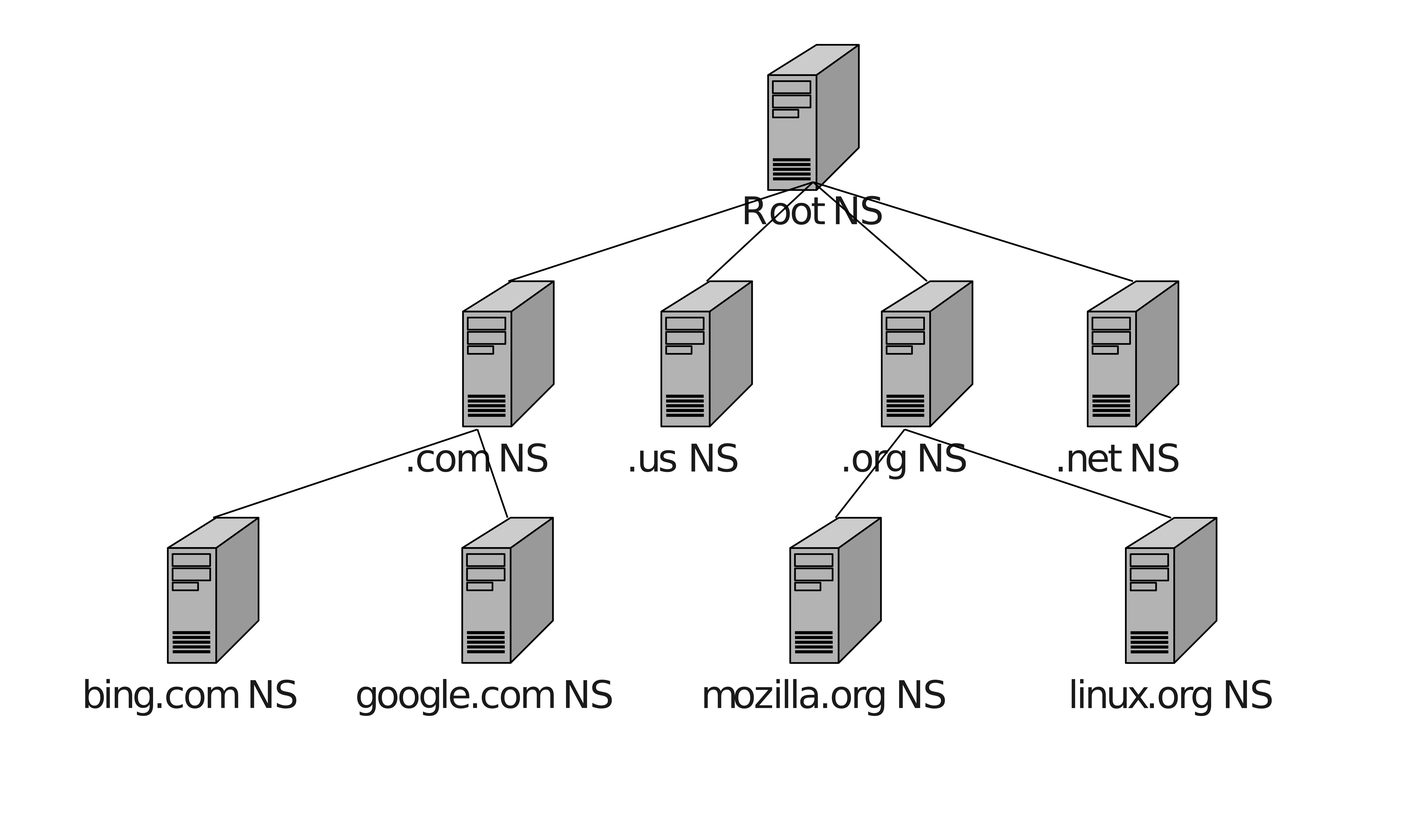
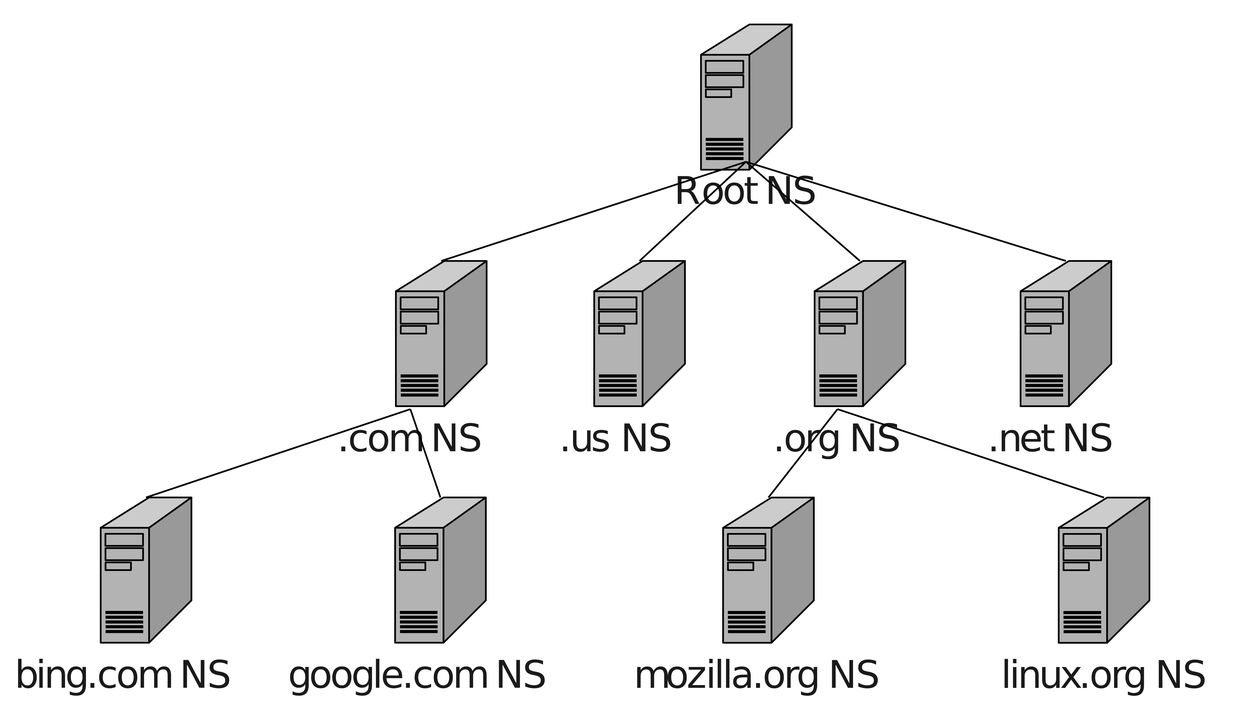
Add section 6.2.2. Minor changes in other sections.
Also add appendixb (Milestones)

diff --git a/chapters/chapter6/section621.tex b/chapters/chapter6/section621.tex
@@ -2,3 +2,150 @@
 % section 6.2.1
 %
 \subsection{Υπηρεσία Ηλεκτρονικού Ταχυδρομείου E-mail (POP3 - IMAP / SMTP)}
+
+Το ηλεκτρονικό ταχυδρομείο είναι ένα σύστημα για μετάδοση μηνυμάτων μεταξύ υπολογιστών. Στην αρχική του μορφή, το ηλεκτρονικό ταχυδρομείο είχε σχεδιαστεί για να μεταφέρει μηνύματα μόνο κειμένου, αργότερα όμως προστέθηκε η δυνατότητα για μεταφορά εικόνων, ήχου, βίντεο ακόμα και ιστοσελίδων, είτε μέσα στο ίδιο το μήνυμα είτε ως \emph{επισυναπτόμενο αρχείο}. Ο χρήστης e-mail έχει τη δυνατότητα να στέλνει μηνύματα σε άλλους χρήστες της υπηρεσίας άνετα γρήγορα και φθηνά. Το ηλεκτρονικό ταχυδρομείο μπορεί επίσης να στέλνει μηνύματα σε ομάδες χρηστών επιτρέποντας τη δημιουργία \emph{λιστών διανομής ή mailing lists}. Όπως και στο συμβατικό ταχυδρομείο, κάθε χρήστης διαθέτει τη δική του διεύθυνση η οποία είναι γενικά της μορφής:
+
+\begin{center}
+xxxxx@yyyyy.zzz
+\end{center}
+
+όπου
+
+\begin{itemize}
+\item \textbf{xxxxx} είναι το όνομα ή κάποιο ψευδώνυμο του χρήστη
+\item \textbf{yyyyy} είναι το όνομα της περιοχής της εταιρίας που παρέχει την υπηρεσία e-mail. Η εταιρία μπορεί να είναι η ίδια που παρέχει υπηρεσίες Internet στον πελάτη ή άλλη εταιρία που παρέχει e-mail επί πληρωμή η δωρεάν. Η περιοχή μπορεί στην πραγματικότητα να περιέχει υποπεριοχές χωρισμένες με τελείες
+\item \textbf{zzz} είναι η κατάληξη που αντιστοιχεί στην περιοχή 1ου επιπέδου και συμβολίζει είτε το είδος της εταιρείας που παρέχει την υπηρεσία (.com, .edu, .org κλπ) είτε τη χώρα (.gr, .de, .fr κλπ)
+\end{itemize}
+
+Το ηλεκτρονικό ταχυδρομείο είναι μια υπηρεσία που χρησιμοποιεί το μοντέλο πελάτη -- εξυπηρετητή. Πελάτης είναι το πρόγραμμα που χρησιμοποιεί ο χρήστης για να γράψει, να λάβει και να στείλει e-mail (π.χ. Windows Live Mail, Outlook, Mozilla Thunderbird). Ο εξυπηρετητής e-mail (e-mail server) είναι μια δικτυακή υπηρεσία που εκτελείται στον εξυπηρετητή του παροχέα. Σε γενικές γραμμές:
+
+\textbf{Ο Πελάτης (client):}
+
+\begin{itemize}
+\item Ξεκινάει την επαφή με τον εξυπηρετητή ταχυδρομείου
+\item Ζητά εξυπηρέτηση από τον εξυπηρετητή (π.χ. για να λάβει ή να στείλει mail)
+\end{itemize}
+
+\textbf{Ο Εξυπηρετητής (server):}
+
+\begin{itemize}
+\item Παρέχει στον πελάτη την εξυπηρέτηση που ζήτησε. Ο εξυπηρετητής είναι υπεύθυνος για να παραδώσει στον πελάτη τα μηνύματα που ήρθαν για αυτόν και να παραδώσει τα μηνύματα που στέλνει ο πελάτης στον εξυπηρετητή προορισμού προκειμένου να παραδοθούν στον πελάτη -- παραλήπτη όταν τα ζητήσει.
+\item Κρατά σε ηλεκτρονική θυρίδα (mailbox) τα μηνύματα που δεν έχει ακόμα παραλάβει ο χρήστης. Σε άλλη αντίστοιχη θυρίδα (ουρά) κρατά τα μηνύματα που έχει παραλάβει από το χρήστη μέχρι να μπορέσει να τα αποστείλει στον προορισμό τους.
+\end{itemize}
+
+Τα πλεονεκτήματα του ηλεκτρονικού ταχυδρομείου είναι:
+
+\begin{itemize}
+\item Είναι πολύ γρήγορο (πρακτικά άμεσο)
+\item Ο χρήστης δεν χρειάζεται να παρακολουθεί τη μετάδοση του μηνύματος όπως π.χ. συμβαίνει με το φαξ
+\item Είναι πιο οικονομικό από το συμβατικό ταχυδρομείο
+\item Μπορούμε να στείλουμε εύκολα το ίδιο μήνυμα σε πολλούς χρήστες ταυτόχρονα
+\end{itemize}
+
+Ωστόσο υπάρχουν και μειονεκτήματα:
+
+\begin{itemize}
+\item Δεν υπάρχει απόλυτη εγγύηση ότι το μήνυμα έφτασε στο προορισμό του
+\item (Εκτός βιβλίου) Λαμβάνουμε μεγάλο αριθμό άσχετων / κακόβουλων μηνυμάτων, ιών κλπ -- γνωστό και ως spam
+\end{itemize}
+
+Η μορφή των μηνυμάτων ηλεκτρονικού ταχυδρομείου με μορφή κειμένου καθορίζεται από διεθνές πρότυπο. Ένα τέτοιο μήνυμα αποτελείται από:
+
+\begin{itemize}
+\item Την \textbf{επικεφαλίδα (header)}: Είναι ένα σύνολο γραμμών όπου κάθε γραμμή αποτελείται από μια επικεφαλίδα, μια άνω-κάτω τελεία και μια τιμή. Για παράδειγμα:
+
+\begin{verbatim}
+From: sonic@thecompany.gr
+To: mpampis@othercompany.gr
+Subject: Testing Email
+\end{verbatim}
+
+\item Το \textbf{σώμα (body)} του μηνύματος: χωρίζεται από την επικεφαλίδα με μια κενή γραμμή. Το σώμα περιέχει το ASCII κείμενο του μηνύματος. Στην πραγματικότητα ακόμα και τα συνημμένα κωδικοποιούνται και μεταδίδονται με αντίστοιχη μορφή. Το τέλος του μηνύματος σηματοδοτείται από μια τελεία ``.'' μόνη της σε μια γραμμή.
+\end{itemize}
+
+Τα βασικά πρωτόκολλα που χρησιμοποιούνται για τη διεκπεραίωση των διαδικασιών του ταχυδρομείου είναι τα \textbf{SMTP, POP3, IMAP} και βρίσκονται φυσικά στο επίπεδο εφαρμογής. To SMTP είναι υπεύθυνο για την αποστολή ταχυδρομείου από το πελάτη προς τον εξυπηρετητή και μεταξύ εξυπηρετητών ενώ τα άλλα δύο για τη λήψη μηνυμάτων από τον εξυπηρετητή στον πελάτη.
+
+\begin{inthebox}
+\textbf{Με τι μοιάζει μια επικοινωνία SMTP;}
+
+Μπορούμε πράγματι να δούμε και να εκτελέσουμε μια επικοινωνία SMTP στέλνοντας μόνοι μας τις κατάλληλες εντολές, χωρίς να χρειαζόμαστε κάποιο πρόγραμμα ηλεκτρονικού ταχυδρομείου. Γενικά θα πρέπει να θυμάστε ότι στο επίπεδο εφαρμογής οι εντολές των πρωτοκόλλων είναι κατανοητές από τον άνθρωπο: πρόκειται για εντολές στα Αγγλικά, κατά βάση συντομεύσεις (συντμήσεις) λέξεων.
+
+Στο παρακάτω παράδειγμα δείχνουμε πως θα ήταν η επικοινωνία ενός πελάτη με ένα εξυπηρετητή SMTP για την αποστολή ενός μηνύματος. Μπορούμε να εκτελέσουμε χειροκίνητα αυτή τη διαδικασία αν συνδεθούμε με ένα πρόγραμμα ικανό να στείλει ακολουθίες χαρακτήρων (εντολές) στη θύρα 25 (όπου βρίσκεται ο εξυπηρετητής SMTP). Στο παράδειγμα μας χρησιμοποιούμε το πρόγραμμα telnet για να συνδεθούμε σε ένα εξυπηρετητή SMTP που εκτελείται τοπικά σε ένα σύστημα UNIX:
+
+\begin{verbatim}
+$ telnet 127.0.0.1 25
+
+Trying 127.0.0.1...
+Connected to localhost.
+Escape character is '^]'.
+220 pegasus.chania-lug.gr ESMTP Sendmail 8.15.2/8.15.2; 
+    Thu, 23 Feb 2017 21:28:58 +0200 (EET)
+\end{verbatim}
+
+Ο εξυπηρετητής μας απαντάει με το αναγνωριστικό του όπου μπορούμε να δούμε την έκδοση που εκτελεί καθώς και την ημερομηνία ώρα του συστήματος. Για να ξεκινήσουμε την επικοινωνία, στέλνουμε την εντολή ``helo'' ή ``ehlo'' και το όνομα του συστήματος μας για αναγνώριση (και ναι, είναι με ένα ``l'' δεν είναι τυπογραφικό!)
+
+\begin{verbatim}
+helo localhost
+250 pegasus.chania-lug.gr Hello localhost [127.0.0.1],
+    pleased to meet you
+\end{verbatim}
+
+Ο εξυπηρετητής μας απαντάει με ένα μήνυμα καλωσορίσματος. Τώρα πρέπει να προχωρήσουμε στέλνοντας τα στοιχεία της επικεφαλίδας, και ακολούθως τα δεδομένα. Ξεκινάμε με την επικεφαλίδα:
+
+\begin{verbatim}
+mail from: sonic@chania-lug.gr
+250 2.1.0 sonic@chania-lug.gr... Sender ok
+\end{verbatim}
+
+Ο εξυπηρετητής επιβεβαιώνει ότι η διεύθυνση αποστολέα είναι δεκτή.
+
+\begin{verbatim}
+rcpt to: mpampis@freebsdworld.gr
+250 2.1.5 mpampis@freebsdworld.gr... Recipient ok
+\end{verbatim}
+
+Επιβεβαιώνεται επίσης η διεύθυνση παραλήπτη. Είμαστε έτοιμοι να στείλουμε το σώμα του email γράφοντας την εντολή ``data'' (στο παράδειγμα μας παραλείψαμε το θέμα):
+
+\begin{verbatim}
+data
+354 Enter mail, end with "." on a line by itself
+\end{verbatim}
+
+Ο εξυπηρετητής μας προτρέπει να γράψουμε το μήνυμα μας και να τελειώσουμε με μια τελεία ``.'' σε μια γραμμή από μόνη της.
+
+\begin{verbatim}
+Hello, this is a test mail
+.
+250 2.0.0 v1NJaK3Q095307 Message accepted for delivery
+\end{verbatim}
+
+Ο εξυπηρετητής επιβεβαιώνει ότι δέχτηκε να παραδώσει το μήνυμα μας στον παραλήπτη. Σε αυτό το σημείο, μπορούμε να αποσυνδεθούμε από τον εξυπηρετητή.
+
+\begin{verbatim}
+quit
+221 2.0.0 pegasus.chania-lug.gr closing connection
+\end{verbatim}
+
+
+Στην πραγματικότητα κάθε φορά που στέλνετε ένα mail μέσω ενός προγράμματος όπως το Thunderbird, το πρόγραμμα στέλνει αυτές τις εντολές για εσας. Όπως βλέπετε δεν υπάρχει κάτι το μυστηριώδες στις εντολές πρωτοκόλλων του επιπέδου εφαρμογής!\\
+\end{inthebox}
+
+\textbf{Πως ολοκληρώνεται η προηγούμενη επικοινωνία;} Ο εξυπηρετητής που παρέλαβε το μήνυμα μας θα βρει (μέσω ερωτήματος στο DNS) ποιος είναι ο εξυπηρετητής ταχυδρομείου που είναι υπεύθυνος για την περιοχή που ανήκει ο παραλήπτης (στο παράδειγμα, θα ψάξει ποιος εξυπηρετητής ταχυδρομείου είναι υπεύθυνος για τον τομέα freebsdworld.gr π.χ. ο mail.freebsdworld.gr). Έπειτα θα επικοινωνήσει με τον εξυπηρετητή αυτό χρησιμοποιώντας πάλι το πρωτόκολλο SMTP και θα του παραδώσει το μήνυμα για το χρήστη mpampis. Ο παραλήπτης του μηνύματος θα συνδεθεί με το δικό του πρόγραμμα (π.χ. Thunderbird, σχήμα \ref{6-7}) και θα κατεβάσει το μήνυμα από το διακομιστή χρησιμοποιώντας το πρωτόκολλο POP3 ή IMAP.
+
+
+\begin{itemize}
+\item Το πρωτόκολλο \textbf{SMTP, Simple Mail Transfer Protocol} ή Πρωτόκολλο Μεταφοράς Απλών Μηνυμάτων χρησιμοποιείται όταν παραδίδεται ένα μήνυμα από ένα πελάτη προς ένα διακομιστή ηλεκτρονικού ταχυδρομείου προκειμένου να παραδοθεί σε ένα παραλήπτη. Χρησιμοποιείται επίσης και για την αποστολή μηνυμάτων μεταξύ εξυπηρετητών e-mail. Το SMTP παραδοσιακά χρησιμοποιεί τη θύρα 25 όπου τα μηνύματα μεταδίδονται χωρίς κρυπτογράφηση, ενώ οι σύχρονες εκδοχές χρησιμοποιούν τη θύρα 465 για κρυπτογραφημένη επικοινωνία SSL ή την 587 για TLS.
+\item Το πρωτόκολλο \textbf{POP3, Post Office Protocol 3} ή πρωτόκολλο ταχυδρομικού γραφείου χρησιμοποιείται στο πρόγραμμα -- πελάτη (e-mail client) προκειμένου να συνδεθεί στον διακομιστή ταχυδρομείου και να κατεβάσει τα μηνύματα ηλεκτρονικού ταχυδρομείου στον τοπικό υπολογιστή. Το πρωτόκολλο αυτό είναι αρκετά απλό και δεν προσφέρει ιδιαίτερες δυνατότητες εκτός από τη λήψη. Μετά τη σύνδεση και την επαλήθευση στοιχείων κατεβάζει όλα τα μηνύματα από τον εξυπηρετητή στο τοπικό μηχάνημα και κατόπιν τα διαγράφει από τον εξυπηρετητή και αποσυνδέεται. Υπάρχει η δυνατότητα να παραμείνουν αντίγραφα των μηνυμάτων στο διακομιστή μέσω ρύθμισης στο e-mail client. Το POP3 χρησιμοποιεί τη θύρα 110 ενώ η παραλλαγή με κρυπτογράφηση χρησιμοποιεί την 995 (SSL).
+\item Το πρωτόκολλο \textbf{IMAP, Internet Message Access Protocol} ή πρωτόκολλο πρόσβασης ηλεκτρονικού ταχυδρομείου έχει αρκετά παρόμοια χαρακτηριστικά με το POP3 αλλά και πρόσθετες δυνατότητες. Πρόκειται επίσης για πρωτόκολλο που χρησιμοποιείται για να κατεβάσει ο πελάτης τα μηνύματα από ένα διακομιστή ταχυδρομείου. Έχει σχεδιαστεί για να επιτρέπει στους χρήστες να διατηρούν τα mail τους στον διακομιστή αντί να τα κατεβάζουν εξ'ολοκλήρου στον τοπικό τους υπολογιστή. Το IMAP απαιτεί περισσότερο χώρο στο δίσκο του κεντρικού υπολογιστή ταχυδρομείου (mail server) και περισσότερη υπολογιστική ισχύ (CPU) από το POP3 καθώς τα μηνύματα παραμένουν στο διακομιστή. Το IMAP χρησιμοποιεί τη θύρα TCP 143 ή την 993 για κρυπτογραφημένη επικοινωνία (SSL).
+\end{itemize}
+
+\begin{figure}[!ht]
+ \centering
+ \includegraphics[width=0.95\textwidth]{images/chapter6/6-7}
+ \caption {\textsl{To Πρόγραμμα Thunderbird (e-mail client)}}
+ \label{6-7}
+\end{figure}
+
+Ένας διαφορετικός τύπος ηλεκτρονικού ταχυδρομείου είναι το \emph{Web mail} που χρησιμοποιεί το πρωτόκολλο HTTP για να ολοκληρωθεί η επικοινωνία διαβάζεται μέσα από κάποιο browser (φυλλομετρητή). Αυτό το είδος ηλεκτρονικού ταχυδρομείου είναι μια υπηρεσία του Παγκόσμιου Ιστού (World Wide Web). 
+
+Για να μπορέσει ένας χρήστης να διαβάσει τα μηνύματα του, θα πρέπει να πιστοποιηθεί από τον εξυπηρετητή εισερχόμενης αλληλογραφίας (POP3 ή IMAP) χρησιμοποιώντας κατάλληλο όνομα χρήστη (User Id ή Login) και κωδικό (Password). Ετσί μπορεί να διαπιστωθεί ότι είναι πράγματι ο χρήστης στον οποίο αντιστοιχεί η ηλεκτρονική διεύθυνση που προσπαθεί να προσπελάσει.

diff --git a/chapters/chapter4/section411.tex b/chapters/chapter4/section411.tex
@@ -18,7 +18,7 @@
 
 Σύμφωνα με αυτά που ξέρουμε η απάντηση είναι ναι: Το TCP μπορεί να δημιουργήσει ένα τμήμα των 6000 bytes: τα τμήματα του TCP ενθυλακώνονται πάντα σε αυτοδύναμα πακέτα IP, και αυτά με τη σειρά τους ενθυλακώνονται στην αντίστοιχη μονάδα δεδομένων του κατώτερου επίπεδου (π.χ. σε πλαίσια Ethernet). Στο επίπεδο Διαδικτύου, τα πακέτα IP μπορούν να υποστούν κατάτμηση (fragmentation) αν το μέγεθος τους είναι τέτοιο που δεν μπορούν να ενθυλακωθούν σε πλαίσια. Θα μπορούσε λοιπόν το TCP να αφήσει αυτή τη λειτουργία στο IP. Υπάρχει λόγος να μην το κάνει;
 
-Ναι. Όταν τα αυτοδύναμα πακέτα IP διασπώνται σε fragments, η απόδοση μειώνεται. Το κάθε fragment έχει δική του επικεφαλίδα και άρα μεταφέρει λιγότερα χρήσιμα δεδομένα από ότι ένα μη-διασπασμένο αυτοδύναμο πακέτο. Επίσης αν ένα fragment χαθεί ή καταστραφεί, είναι πλέον αδύνατο να συναρμολογηθεί το αντίστοιχο αυτοδύναμο πακέτο. Όμως αυτό το πακέτο έχει μέσα του πολλά δεδομένα (ένα ολόκληρο ``μεγάλου μεγέθους'' τμήμα): το επίπεδο μεταφοράς θα χρειαστεί να ξαναστείλει όλο το τμήμα.
+Ναι. Όταν τα αυτοδύναμα πακέτα IP διασπώνται σε fragments, η απόδοση μειώνεται. Το κάθε fragment έχει δική του επικεφαλίδα και άρα μεταφέρει λιγότερα χρήσιμα δεδομένα από ότι ένα μη-διασπασμένο αυτοδύναμο πακέτο. Επίσης αν ένα fragment χαθεί ή καταστραφεί, είναι πλέον αδύνατο να συναρμολογηθεί το αντίστοιχο αυτοδύναμο πακέτο IP. Όμως αυτό το πακέτο έχει μέσα του πολλά δεδομένα (ένα ολόκληρο ``μεγάλου μεγέθους'' τμήμα): το επίπεδο μεταφοράς θα χρειαστεί να ξαναστείλει όλο το τμήμα. Θυμηθείτε ότι το IP είναι πρωτόκολλο τύπου ``best effort'': δεν παρέχει αξιοπιστία μετάδοσης και ούτε έχει κάποιο μηχανισμό να μεταδώσει ξανά fragment ή πακέτο IP που χάθηκε ή καταστράφηκε. Αυτό θα πρέπει να γίνει στο επίπεδο μεταφοράς.
 
 Για να βελτιστοποιήσουμε την απόδοση, στην έναρξη της επικοινωνίας και οι δυο μεριές δηλώνουν το μέγιστο μέγεθος τμήματος που μπορούν να χρησιμοποιήσουν. Αυτό είναι γενικά γνωστό ως Maximum Segment Size (MSS). Δεν γίνεται κάποια διαπραγμάτευση μεταξύ των δύο άκρων: είναι απλά μια δήλωση. Σε γενικές γραμμές, επιλέγεται μια τιμή τέτοια ώστε να μη χρειαστεί να γίνει IP fragmentation: μια τέτοια τιμή προφανώς είναι κοντά στη μέγιστη μονάδα μεταφοράς του φυσικού μέσου (MTU), αφού ληφθούν υπόψη και οι επικεφαλίδες που θα προστεθούν σε κάθε επίπεδο. Σημειώστε ότι δεν θα χρησιμοποιηθεί αναγκαστικά η τιμή MSS για όλα τα τμήματα: απλά είναι η μέγιστη δυνατή. Η πραγματική μπορεί να είναι μικρότερη και ρυθμίζεται από παράγοντες όπως ο έλεγχος ροής (το πεδίο ``παράθυρο'').
 

diff --git a/chapters/appendix/appendixb.tex b/chapters/appendix/appendixb.tex
@@ -1,0 +1,25 @@
+\chapter{Ορόσημα (Milestones)}
+\newpage
+\section{Ορόσημα στη Συγγραφή του Βοηθήματος}
+
+\begin{tabular}{ll}
+\textbf{Ημερομηνία} & \textbf{Περιγραφή} \\
+\hline\\
+ 12/09/2016 & Δημιουργία του \href{https://github.com/sonic2000gr/diktia}{GitHuB Repository}\\ 
+ 02/10/2016 & Δημιουργία του αρχικού σκελετού αρχείων \LaTeX.\\
+ 02/10/2016 & Συγγραφή της πρώτης ενότητας (1.2.2)\\
+ 09/10/2016 & Ολοκλήρωση Κεφαλαίου 1\\
+ 09/10/2016 & Δημιουργία της Παρουσίασης διδασκαλίας\\
+ 29/10/2016 & Ολοκλήρωση Κεφαλαίου 2\\
+ 29/01/2017 & Ολοκλήρωση Κεφαλαίου 3\\
+ 07/02/2017 & Ολοκλήρωση Κεφαλαίου 4\\
+ 08/02/2017 & Προσθήκη Παραρτήματος: Μεθοδολογία Ασκήσεων Κεφ. 3\\
+ 09/02/2017 & Ολοκλήρωση όλων των εναπομείναντων εικόνων / σχημάτων\\
+ 16/02/2017 & Προσθήκη φωτογραφίας / αφιέρωσης\\
+ 18/02/2017 & Ολοκλήρωση Κεφαλαίου 8\\
+ 19/02/2017 & Προσθήκη Επίσημου Εξωφύλλου Έκδοσης (Σκίτσο)\\
+ 19/02/2017 & Ολοκλήρωση Κεφαλαίου 7\\
+ 21/02/2017 & Ολοκλήρωση Κεφαλαίου 5\\
+ 23/02/2017 & Προσθήκη του παρόντος Παραρτήματος\\
+\hline
+\end{tabular}

diff --git a/chapters/chapter6/chapter6.tex b/chapters/chapter6/chapter6.tex
@@ -6,7 +6,7 @@
 \input chapters/chapter6/section611
 \input chapters/chapter6/section612
 \input chapters/chapter6/section62
-%\input chapters/chapter6/section621
+\input chapters/chapter6/section621
 %\input chapters/chapter6/section622
 %\input chapters/chapter6/section623
 

diff --git a/chapters/chapter6/section612.tex b/chapters/chapter6/section612.tex
@@ -7,7 +7,7 @@
 
 \begin{figure}[!ht]
   \centering
-  \includegraphics[width=0.95\textwidth]{images/chapter6/6-3}
+  \includegraphics[width=0.85\textwidth]{images/chapter6/6-3}
   \caption {\textsl{Ιεραρχία Εξυπηρετητών DNS}}
   \label{6-3}
 \end{figure}

diff --git a/diktia2016.tex b/diktia2016.tex
@@ -75,4 +75,5 @@
 \part{Παραρτήματα}
 \appendix
 \input {chapters/appendix/appendixa}
+\input {chapters/appendix/appendixb}
 \end{document}
